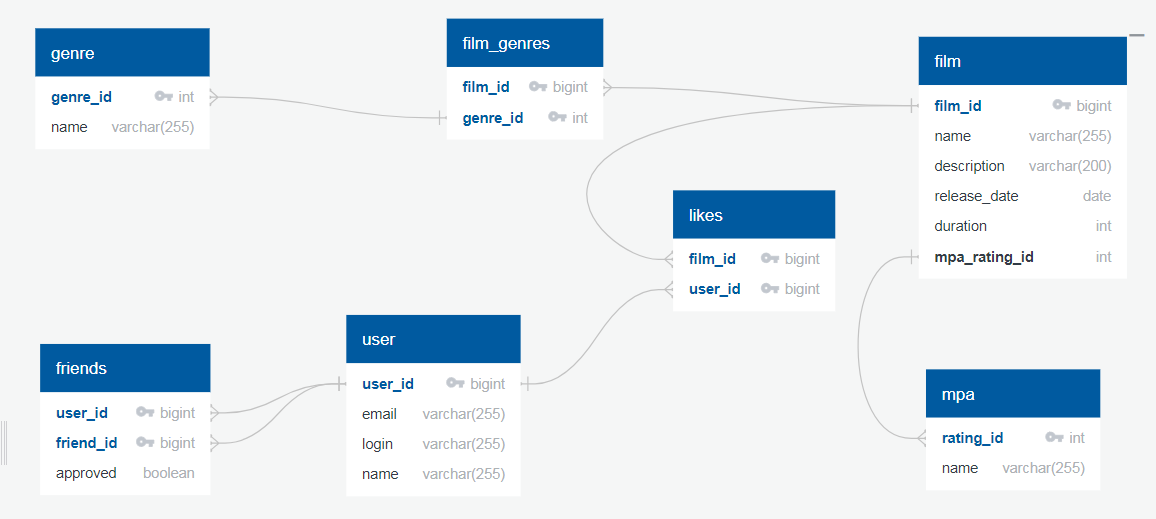
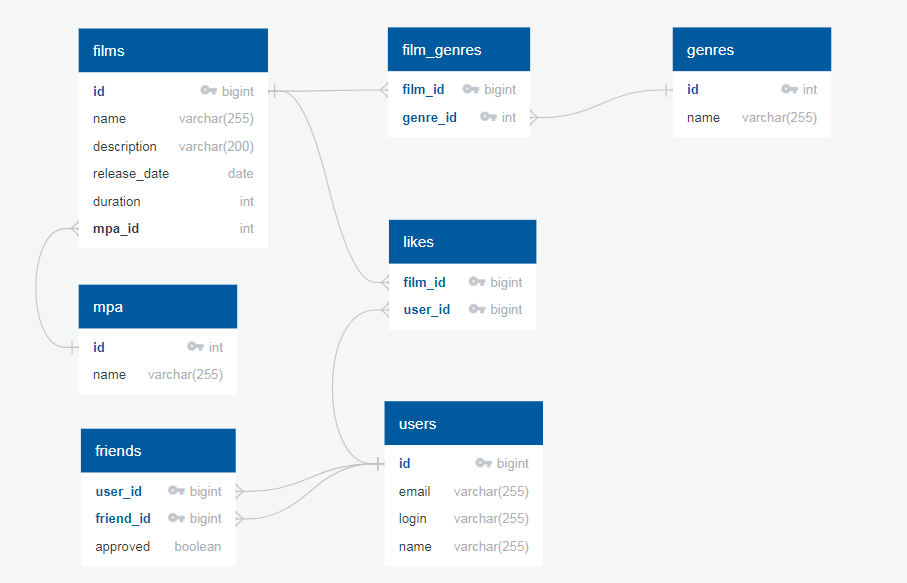
fix: исправлены по замечаниям методы, использующие проверку наличия ключа в мапе

diff --git a/README.md b/README.md
@@ -14,43 +14,43 @@
 
 * Получение всех фильмов:
 ```SQL
-SELECT f.film_id,
+SELECT f.id,
        f.name,
        f.description,
        f.release_date,
        f.duration,
        mp.name AS mpa_rating,
 FROM films AS f
-JOIN mpa_ratings AS mp ON f.mpa_rating_id = mp.rating_id;
+JOIN mpa AS mp ON f.mpa_id = mp.id;
 ```
 
 * Получение фильма по идентификатору:
 ```SQL
-SELECT f.film_id,
+SELECT f.id,
        f.name,
        f.description,
        f.release_date,
        f.duration,
        mp.name AS mpa_rating,
 FROM films AS f
-JOIN mpa_ratings AS mp ON f.mpa_rating_id = mp.rating_id
-WHERE f.film_id = ?;
+JOIN mpa AS mp ON f.mpa_id = mp.id
+WHERE f.id = ?;
 ```
 
 * Получение топ-чарта фильмов по количеству лайков:
 ```SQL
-SELECT f.film_id,
+SELECT f.id,
        f.name,
        f.description,
        f.release_date,
        f.duration,
        mp.name AS mpa_rating,
-       COUNT(fl.user_id) AS likes
+       COUNT(l.user_id) AS likes
 FROM films AS f
-JOIN mpa_ratings AS mp ON f.mpa_rating_id = mp.rating_id
-LEFT JOIN film_likes AS fl ON f.film_id = fl.film_id
-GROUP BY f.film_id
-ORDER BY like_count DESC 
+JOIN mpa AS mp ON f.mpa_id = mp.id
+LEFT JOIN likes AS l ON f.id = l.film_id
+GROUP BY f.id
+ORDER BY likes DESC 
 LIMIT ?;
 ```
 </details>
@@ -62,14 +62,14 @@ LIMIT ?;
 
 ```SQL
 SELECT *
-FROM user
+FROM users
 ```
 
 * Получение пользователя по идентификатору:
 ```SQL
 SELECT *
-FROM user
-WHERE user_id = ?
+FROM users
+WHERE id = ?
 ```   
 
 </details>
